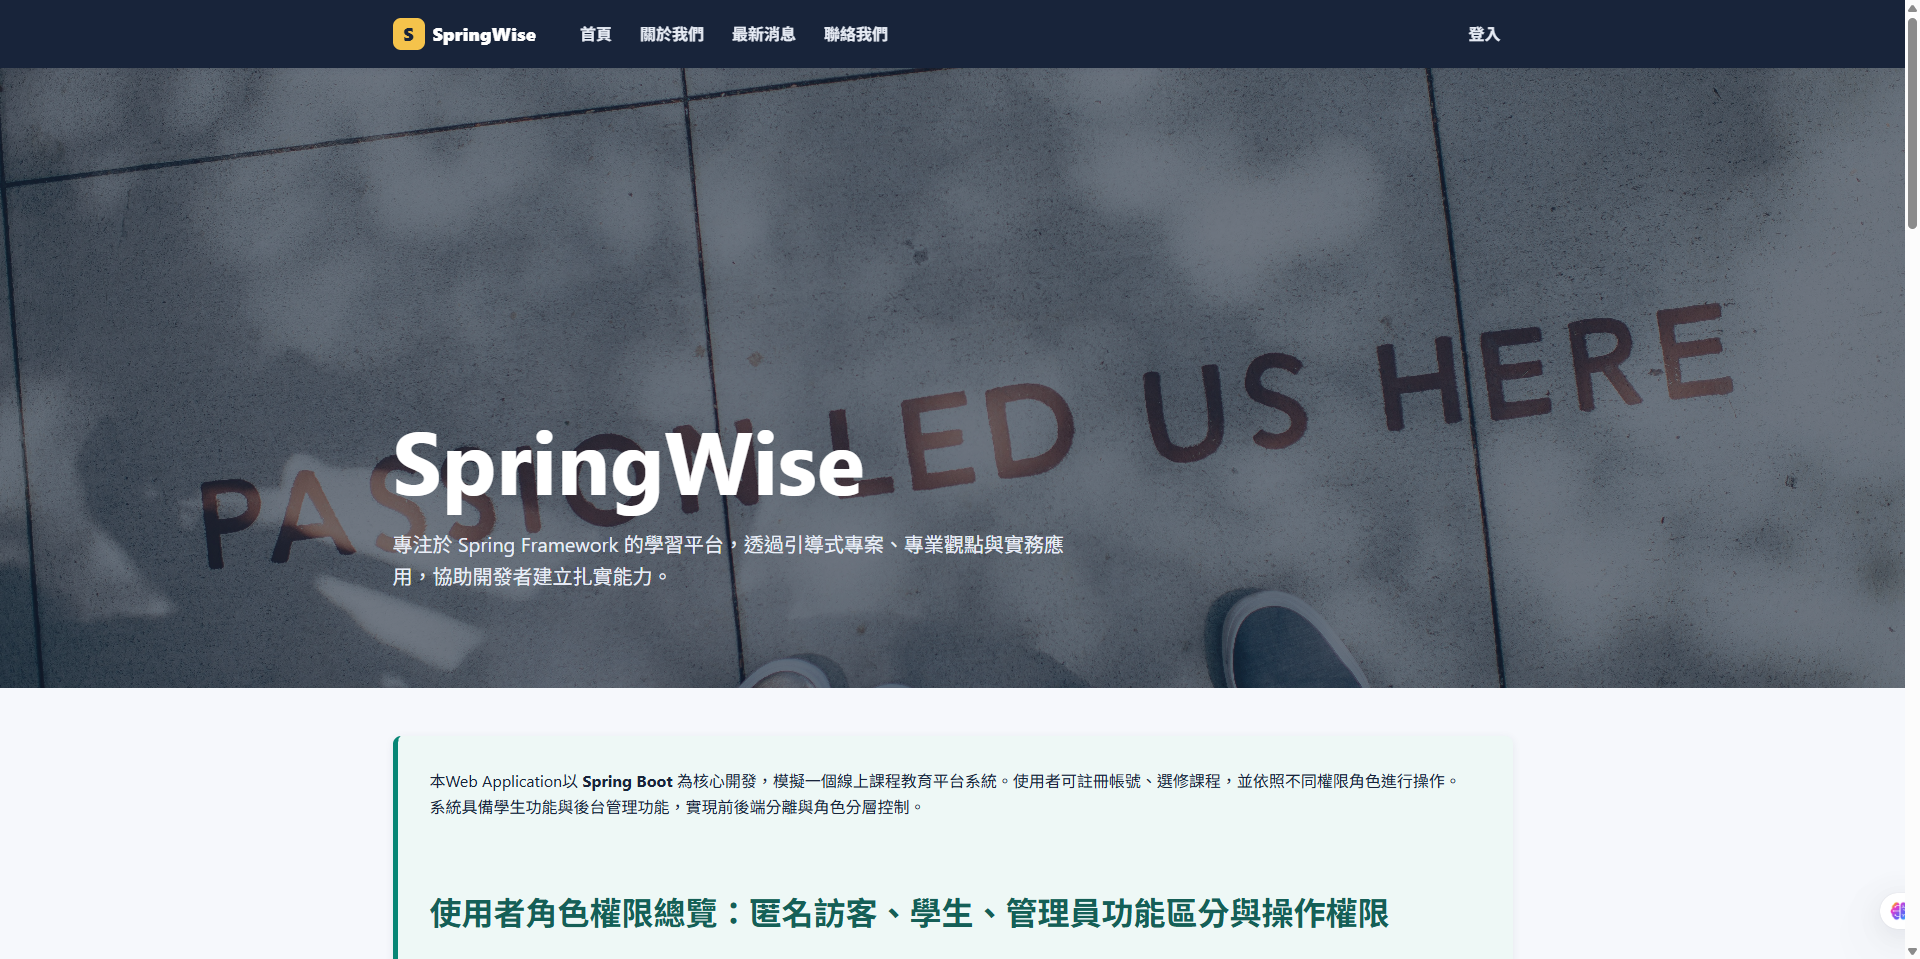
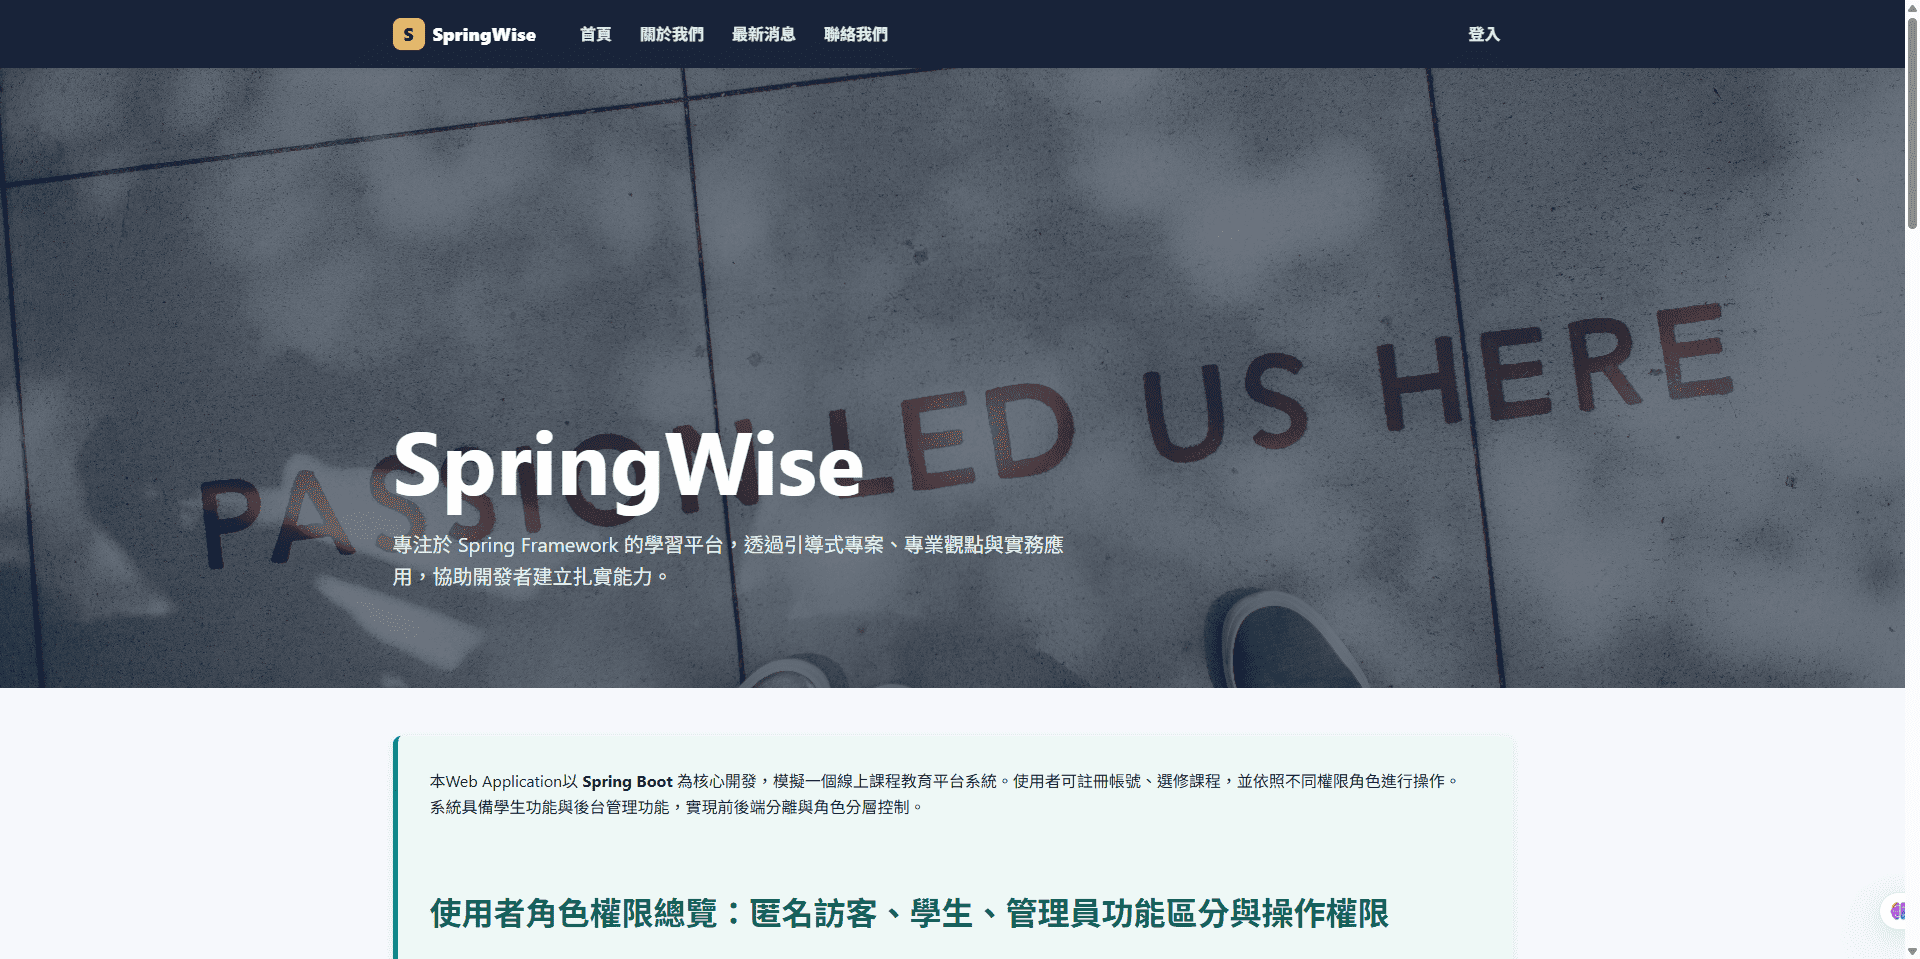
update readme

diff --git a/MyWeb/src/main/resources/templates/nav/navbar.html b/MyWeb/src/main/resources/templates/nav/navbar.html
@@ -19,7 +19,7 @@
                     <a class="site-nav__link" th:href="@{/about}">關於我們</a>
                     <a class="site-nav__link" th:href="@{/news}">最新消息</a>
                     <a class="site-nav__link" th:href="@{/contact}">聯絡我們</a>
-                    <a class="site-nav__link site-nav__link--accent" sec:authorize="isAuthenticated()" th:href="@{/dashboard}">控制台</a>
+                    <a class="site-nav__link site-nav__link--accent" sec:authorize="isAuthenticated()" th:href="@{/dashboard}">個人儀表板</a>
                 </div>
                 <div class="site-nav__group">
                     <a class="site-nav__link" sec:authorize="isAnonymous()" th:href="@{/login}">登入</a>

diff --git a/MyWeb/src/main/resources/templates/authenticated/adminOnly/contactMessage.html b/MyWeb/src/main/resources/templates/authenticated/adminOnly/contactMessage.html
@@ -102,7 +102,7 @@
 
     <!-- 返回 dashboard -->
     <div class="back-to-dashboard-container">
-        <a th:href="@{/dashboard}" class="button button--secondary">← 返回控制台</a>
+        <a th:href="@{/dashboard}" class="button button--secondary">← 返回個人儀表板</a>
     </div>
 </div>
 

diff --git a/MyWeb/src/main/resources/templates/authenticated/studentOnly/viewEnrolledCourses.html b/MyWeb/src/main/resources/templates/authenticated/studentOnly/viewEnrolledCourses.html
@@ -42,7 +42,7 @@
 
     <!-- 返回 Dashboard -->
     <div class="back-to-dashboard-container">
-        <a class="button button--secondary" th:href="@{/dashboard}">← 返回控制台</a>
+        <a class="button button--secondary" th:href="@{/dashboard}">← 返回個人儀表板</a>
     </div>
 </main>
 

diff --git a/MyWeb/src/main/resources/templates/authenticated/adminOnly/coursePage.html b/MyWeb/src/main/resources/templates/authenticated/adminOnly/coursePage.html
@@ -69,7 +69,7 @@
 
     <!-- 返回按鈕 -->
     <div class="back-to-dashboard-container">
-        <a class="button button--secondary" th:href="@{/dashboard}">← 返回控制台</a>
+        <a class="button button--secondary" th:href="@{/dashboard}">← 返回個人儀表板</a>
     </div>
 </main>
 

diff --git a/MyWeb/src/main/resources/templates/authenticated/adminOnly/planPage.html b/MyWeb/src/main/resources/templates/authenticated/adminOnly/planPage.html
@@ -62,7 +62,7 @@
 
     <!-- 返回按鈕 -->
     <div class="back-to-dashboard-container">
-        <a th:href="@{/dashboard}" class="button button--secondary">← 返回控制台</a>
+        <a th:href="@{/dashboard}" class="button button--secondary">← 返回個人儀表板</a>
     </div>
 </main>
 

diff --git a/MyWeb/src/main/resources/templates/authenticated/studentOnly/signUpCourses.html b/MyWeb/src/main/resources/templates/authenticated/studentOnly/signUpCourses.html
@@ -62,7 +62,7 @@
 
     <!-- 返回連結 -->
     <div class="back-to-dashboard-container">
-        <a class="button button--secondary" th:href="@{/dashboard}">← 返回控制台</a>
+        <a class="button button--secondary" th:href="@{/dashboard}">← 返回個人儀表板</a>
     </div>
 </main>
 

diff --git a/MyWeb/src/main/resources/templates/authenticated/profile.html b/MyWeb/src/main/resources/templates/authenticated/profile.html
@@ -70,7 +70,7 @@
 
 <!-- 返回 dashboard -->
 <div class="back-to-dashboard-container">
-    <a th:href="@{/dashboard}" class="back-to-dashboard">← 返回控制台</a>
+    <a th:href="@{/dashboard}" class="back-to-dashboard">← 返回個人儀表板</a>
 </div>
 </main>
 

diff --git a/MyWeb/src/main/resources/templates/authenticated/dashboard.html b/MyWeb/src/main/resources/templates/authenticated/dashboard.html
@@ -3,7 +3,7 @@
       xmlns:sec="http://www.thymeleaf.org/extras/spring-security">
 <head>
     <meta charset="UTF-8">
-    <title>控制台</title>
+    <title>個人儀表板</title>
     <link rel="stylesheet" th:href="@{/css/app.css}"/>
 </head>
 <body>

diff --git a/README.md b/README.md
@@ -62,36 +62,82 @@ flowchart TD
 
 ### 畫面截圖
 
+> 展開下方分組可看其餘 9 張；所有截圖放在 [`docs/screenshots/`](./docs/screenshots)。
+
 #### 首頁
 
-![SpringWise 首頁 — hero 區與角色權限總覽](docs/screenshots/home.png)
+![SpringWise 首頁 — hero 區與使用者角色權限總覽](docs/screenshots/home.png)
 
-#### 待補的截圖
+<details>
+<summary><b>🔓 前台（不需登入）— 登入頁、註冊頁</b></summary>
 
-> 📸 把檔案放進 `docs/screenshots/`，然後**把下面對應那行從註解區塊移出來**（`<!--` / `-->` 之間的內容不會被渲染）。
+<br>
 
-| 檔名 | 擷取位置 | 需要的帳號 | 狀態 |
-|---|---|---|---|
-| `home.png` | <http://localhost:8081/> | 不需登入 | ✅ 已加入 |
-| `login.png` | <http://localhost:8081/login> | 不需登入 | ⬜ |
-| `register.png` | <http://localhost:8081/public/register> | 不需登入 | ⬜ |
-| `dashboard.png` | <http://localhost:8081/dashboard> | 任一帳號 | ⬜ |
-| `admin-contact.png` | <http://localhost:8081/admin/viewContactMessage/page/1> | `admin@gmail.com` | ⬜ |
-| `admin-plan.png` | <http://localhost:8081/admin/planPage> | `admin@gmail.com` | ⬜ |
-| `student-courses.png` | <http://localhost:8081/student/signUpCourses> | `student@gmail.com` | ⬜ |
-| `hal-explorer.png` | <http://localhost:8081/spring-data-api/> | `admin@gmail.com` | ⬜ |
-| `boot-admin.png` | <http://localhost:8083> | 不需登入（Admin Server 未設安全性）| ⬜ |
+**登入** — `/login`，由自訂的 `UsernamePwdAuthenticationProvider` 以 email + BCrypt 驗證
 
-<!--
 ![登入頁](docs/screenshots/login.png)
+
+**註冊** — `/public/register`，表單 POST 到 `/public/createUser`，套用 `@PasswordValidator` 與 `@FieldValueMatchValidator`
+
 ![註冊頁](docs/screenshots/register.png)
-![Dashboard](docs/screenshots/dashboard.png)
+
+</details>
+
+<details>
+<summary><b>👤 登入後 — 個人儀表板、個人資料</b></summary>
+
+<br>
+
+**個人儀表板** — `/dashboard`，依角色顯示不同入口（圖為 `ROLE_ADMIN`，有「查看聯絡訊息／管理方案／管理課程」三張卡片）
+
+![個人儀表板](docs/screenshots/dashboard.png)
+
+**個人資料** — `/profilePage`，以 `Profile` DTO（非 Entity）承載表單，含基本資料與地址資料
+
+![個人資料](docs/screenshots/student-profile.png)
+
+</details>
+
+<details>
+<summary><b>🛠 管理員後台 — 聯絡訊息、方案管理</b></summary>
+
+<br>
+
+**聯絡訊息** — `/admin/viewContactMessage/page/1`，**每頁 5 筆**（由 `myweb.paginationPageSize` 控制）、欄位可排序，右側「關閉」把狀態從 `OPEN` 改為 `CLOSED`
+
 ![後台 — 聯絡訊息管理](docs/screenshots/admin-contact.png)
+
+**方案管理** — `/admin/planPage`，`Plan` 的 CRUD；「查看」進入 `viewPlanDetail` 可增減該方案的學生
+
 ![後台 — 方案管理](docs/screenshots/admin-plan.png)
+
+</details>
+
+<details>
+<summary><b>🎓 學生 — 選課</b></summary>
+
+<br>
+
+**可選課程** — `/student/signUpCourses`，勾選後批次購買；已報名的課程會被 disable（由 `alreadyRegisteredCourses` 判斷）
+
 ![學生 — 報名課程](docs/screenshots/student-courses.png)
+
+</details>
+
+<details>
+<summary><b>🔧 開發者工具 — HAL Explorer、Boot Admin</b></summary>
+
+<br>
+
+**HAL Explorer** — `/spring-data-api/`，Spring Data REST 自動產生端點的互動式瀏覽器（需 `ROLE_ADMIN`）
+
 ![HAL Explorer](docs/screenshots/hal-explorer.png)
+
+**Spring Boot Admin** — <http://localhost:8083>，可看健康狀態、執行緒、CPU、環境變數、Bean、Logfile；左側「日誌」分頁能**線上調整 log level 免重啟**
+
 ![Boot Admin 監控](docs/screenshots/boot-admin.png)
--->
+
+</details>
 
 ---
 
@@ -211,6 +257,19 @@ erDiagram
 
 `ContactRepository` 更刻意示範了**四種查詢寫法對照**：Derived query、`@Query` JPQL、`@NamedQuery`、`@Modifying` UPDATE。
 
+### 📖 每一頁都內嵌「這頁背後的 Spring 原理」
+
+這是 SpringWise 最特別的地方 —— **15 個頁面各自帶一段教學說明**，放在 `templates/text/*Description.html`，以 Thymeleaf fragment 嵌在頁面下方，內容包含該頁用到的 Spring 機制與實際程式碼片段。例如：
+
+| 頁面 | 說明的主題 |
+|---|---|
+| `dashboardDescription` | Spring Security 登入後如何導向 Dashboard 並從 `Authentication` 取回 `Person` |
+| `planPageDescription` | `@ModelAttribute` 為何在每次進入頁面時自動執行 |
+| `signUpCoursesDescription` | 多對多關聯下「已註冊課程」的判斷邏輯 |
+| `viewPlanDetailDescription` | `Set<Person>` 的迴圈渲染與雙向關聯維護 |
+
+也就是說，**這個 app 本身就是它自己的教材** — 操作畫面與原理解說在同一頁。
+
 ### 📊 AOP 全域執行時間記錄（含切點取捨）
 
 `aspect/LoggerAspect` 的兩個 advice **切點範圍刻意不同**：
@@ -221,6 +280,20 @@ erDiagram
 ```
 
 原因是 actuator 走 Basic Auth 且**無 session**，Admin Server 每次輪詢都會重新驗證一次；若 `@Around` 全攔，單次輪詢就會刷出 7 行 log 並把 BCrypt hash 印進檔案。這是個「AOP 切點必須配合實際流量設計」的真實案例。
+
+### 🏷 自訂 Actuator `/info` 內容
+
+`config/MyWebActuatorInfoContributor` 實作 `InfoContributor`，Spring Boot 會自動偵測並把資料掛在 `myWeb-info` 這個 key 底下 —— 同時出現在 `/myWeb/actuator/info` 的 JSON 與 **Boot Admin 儀表板的「資訊」卡片**（見上方截圖）。
+
+```java
+@Component
+public class MyWebActuatorInfoContributor implements InfoContributor {
+    @Override
+    public void contribute(Info.Builder builder) {
+        builder.withDetail("myWeb-info", Map.of("App Name", "MyWeb", "App Version", "1.0.0", ...));
+    }
+}
+```
 
 ### 📁 log 落檔 + 線上調整 log level
 
